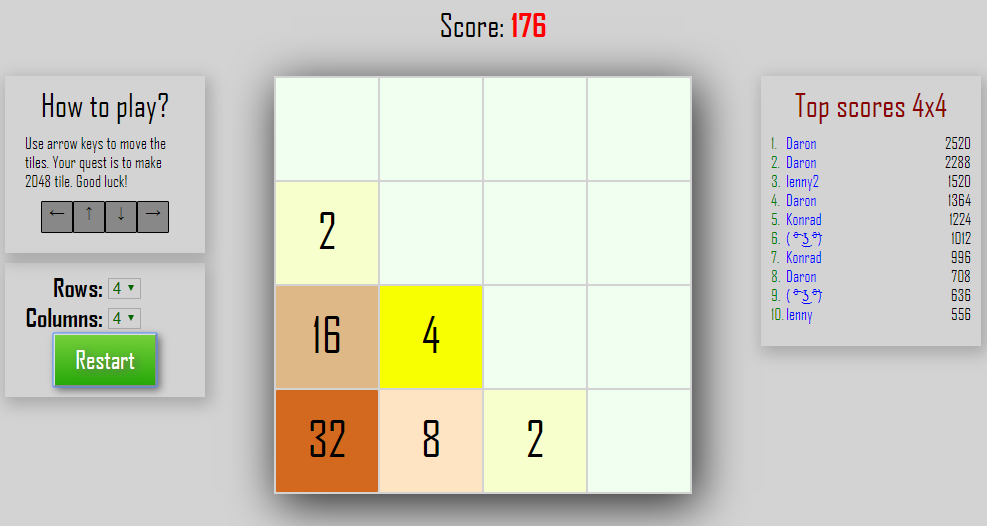
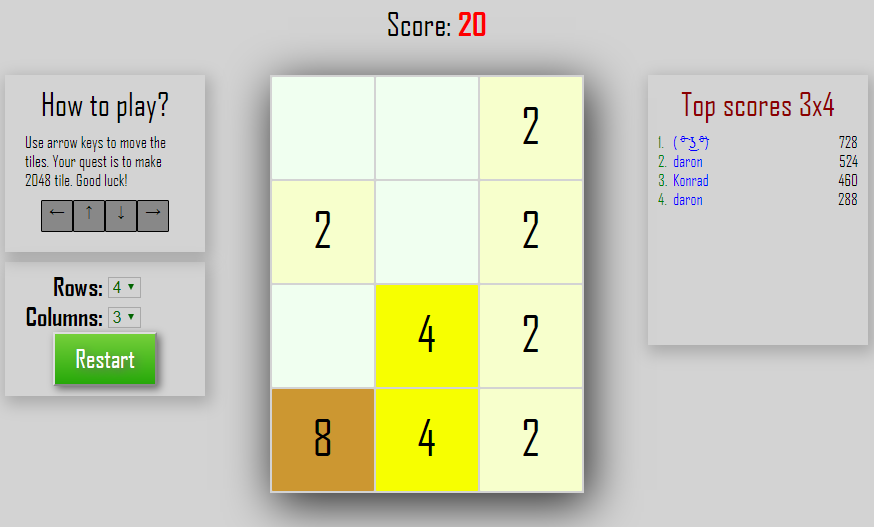
Update screenshot.png, README.md, change top scores font size

diff --git a/style.css b/style.css
@@ -183,6 +183,7 @@ body {
 
     grid-column: 3;
     -ms-grid-column: 3;
+    font-family: "monospace";
 }
 
 .current-score {

diff --git a/README.md b/README.md
@@ -1,17 +1,17 @@
 # 2048 Game in JavaScript
 
-----------------------------------------------------------
 
-Features:
+### Features:
 
  * Pure JavaScript
  * CSS Grid layout
  * Changeable number of rows and columns
 
 
-# Try it:
+### Try it:
+
 ## [d4rn0k.github.io/2048JS](https://d4rn0k.github.io/2048JS)
 
-Screenshot:
+#### Screenshot (Google Chrome):
 
-![Screenshot Google Chrome](Screenshot.png?raw=true "2048JS in Google Chrome")
+![Screenshot Google Chrome](screenshot.png?raw=true "2048JS in Google Chrome")
